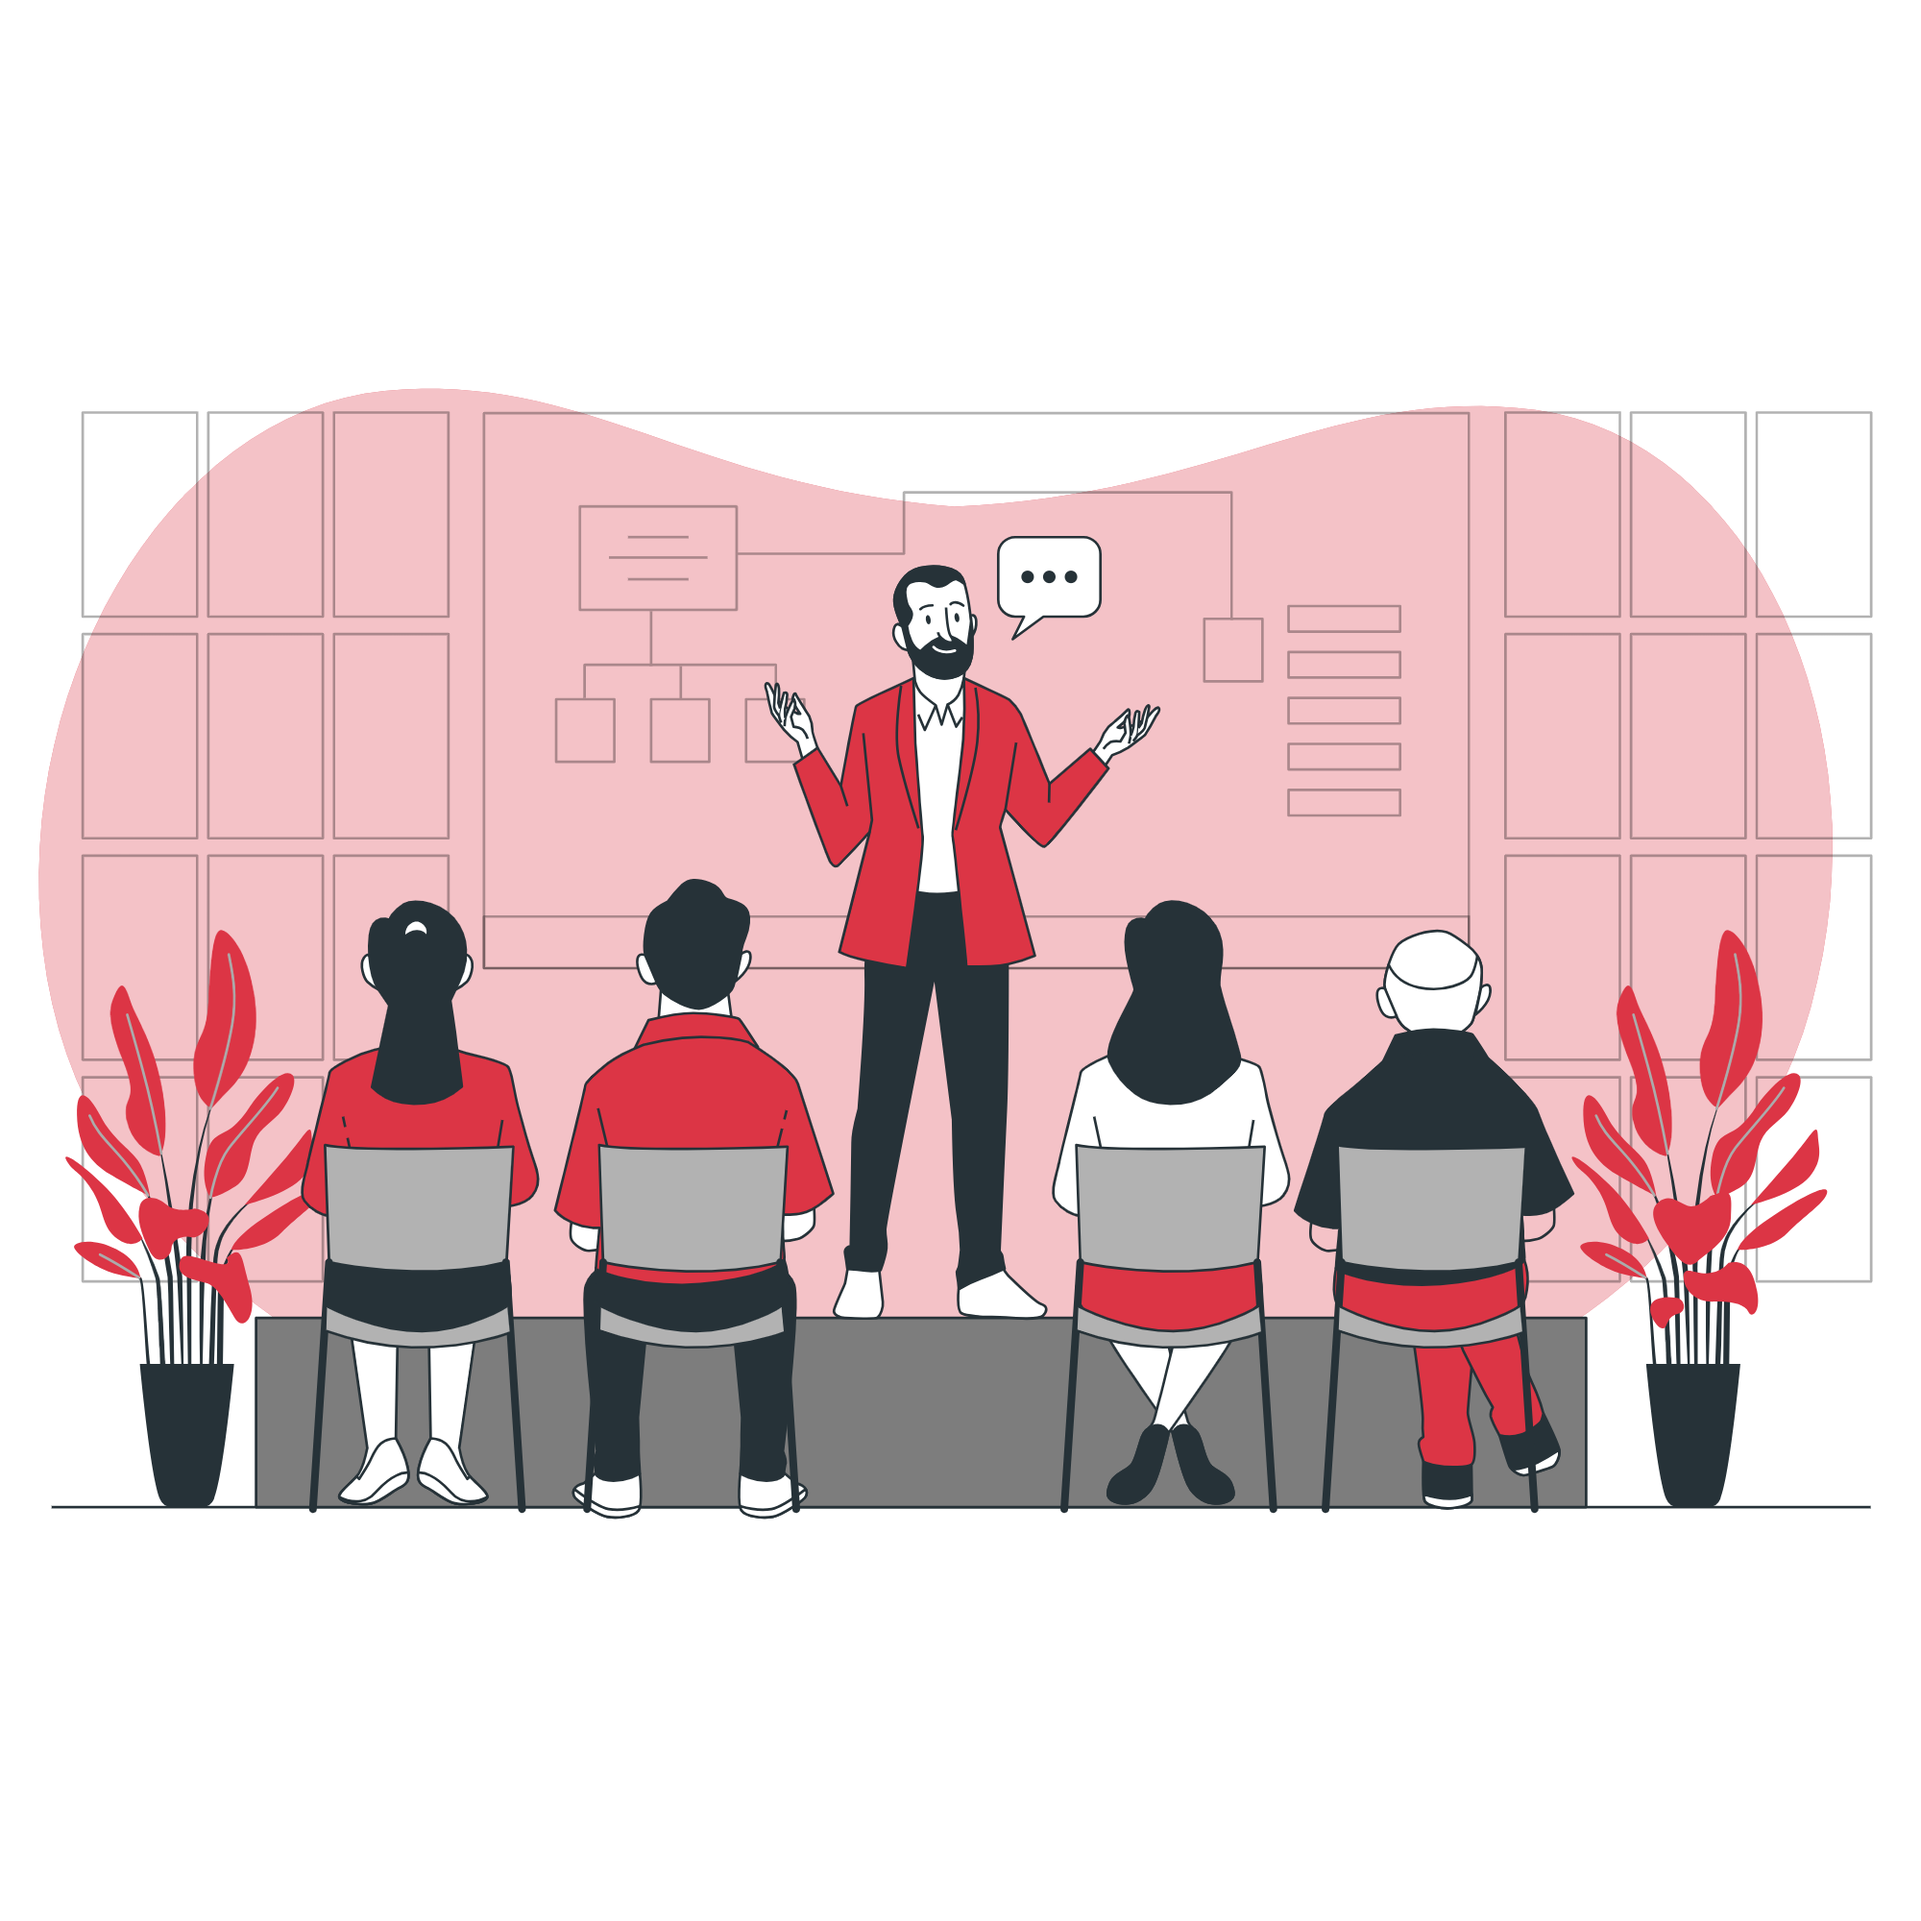
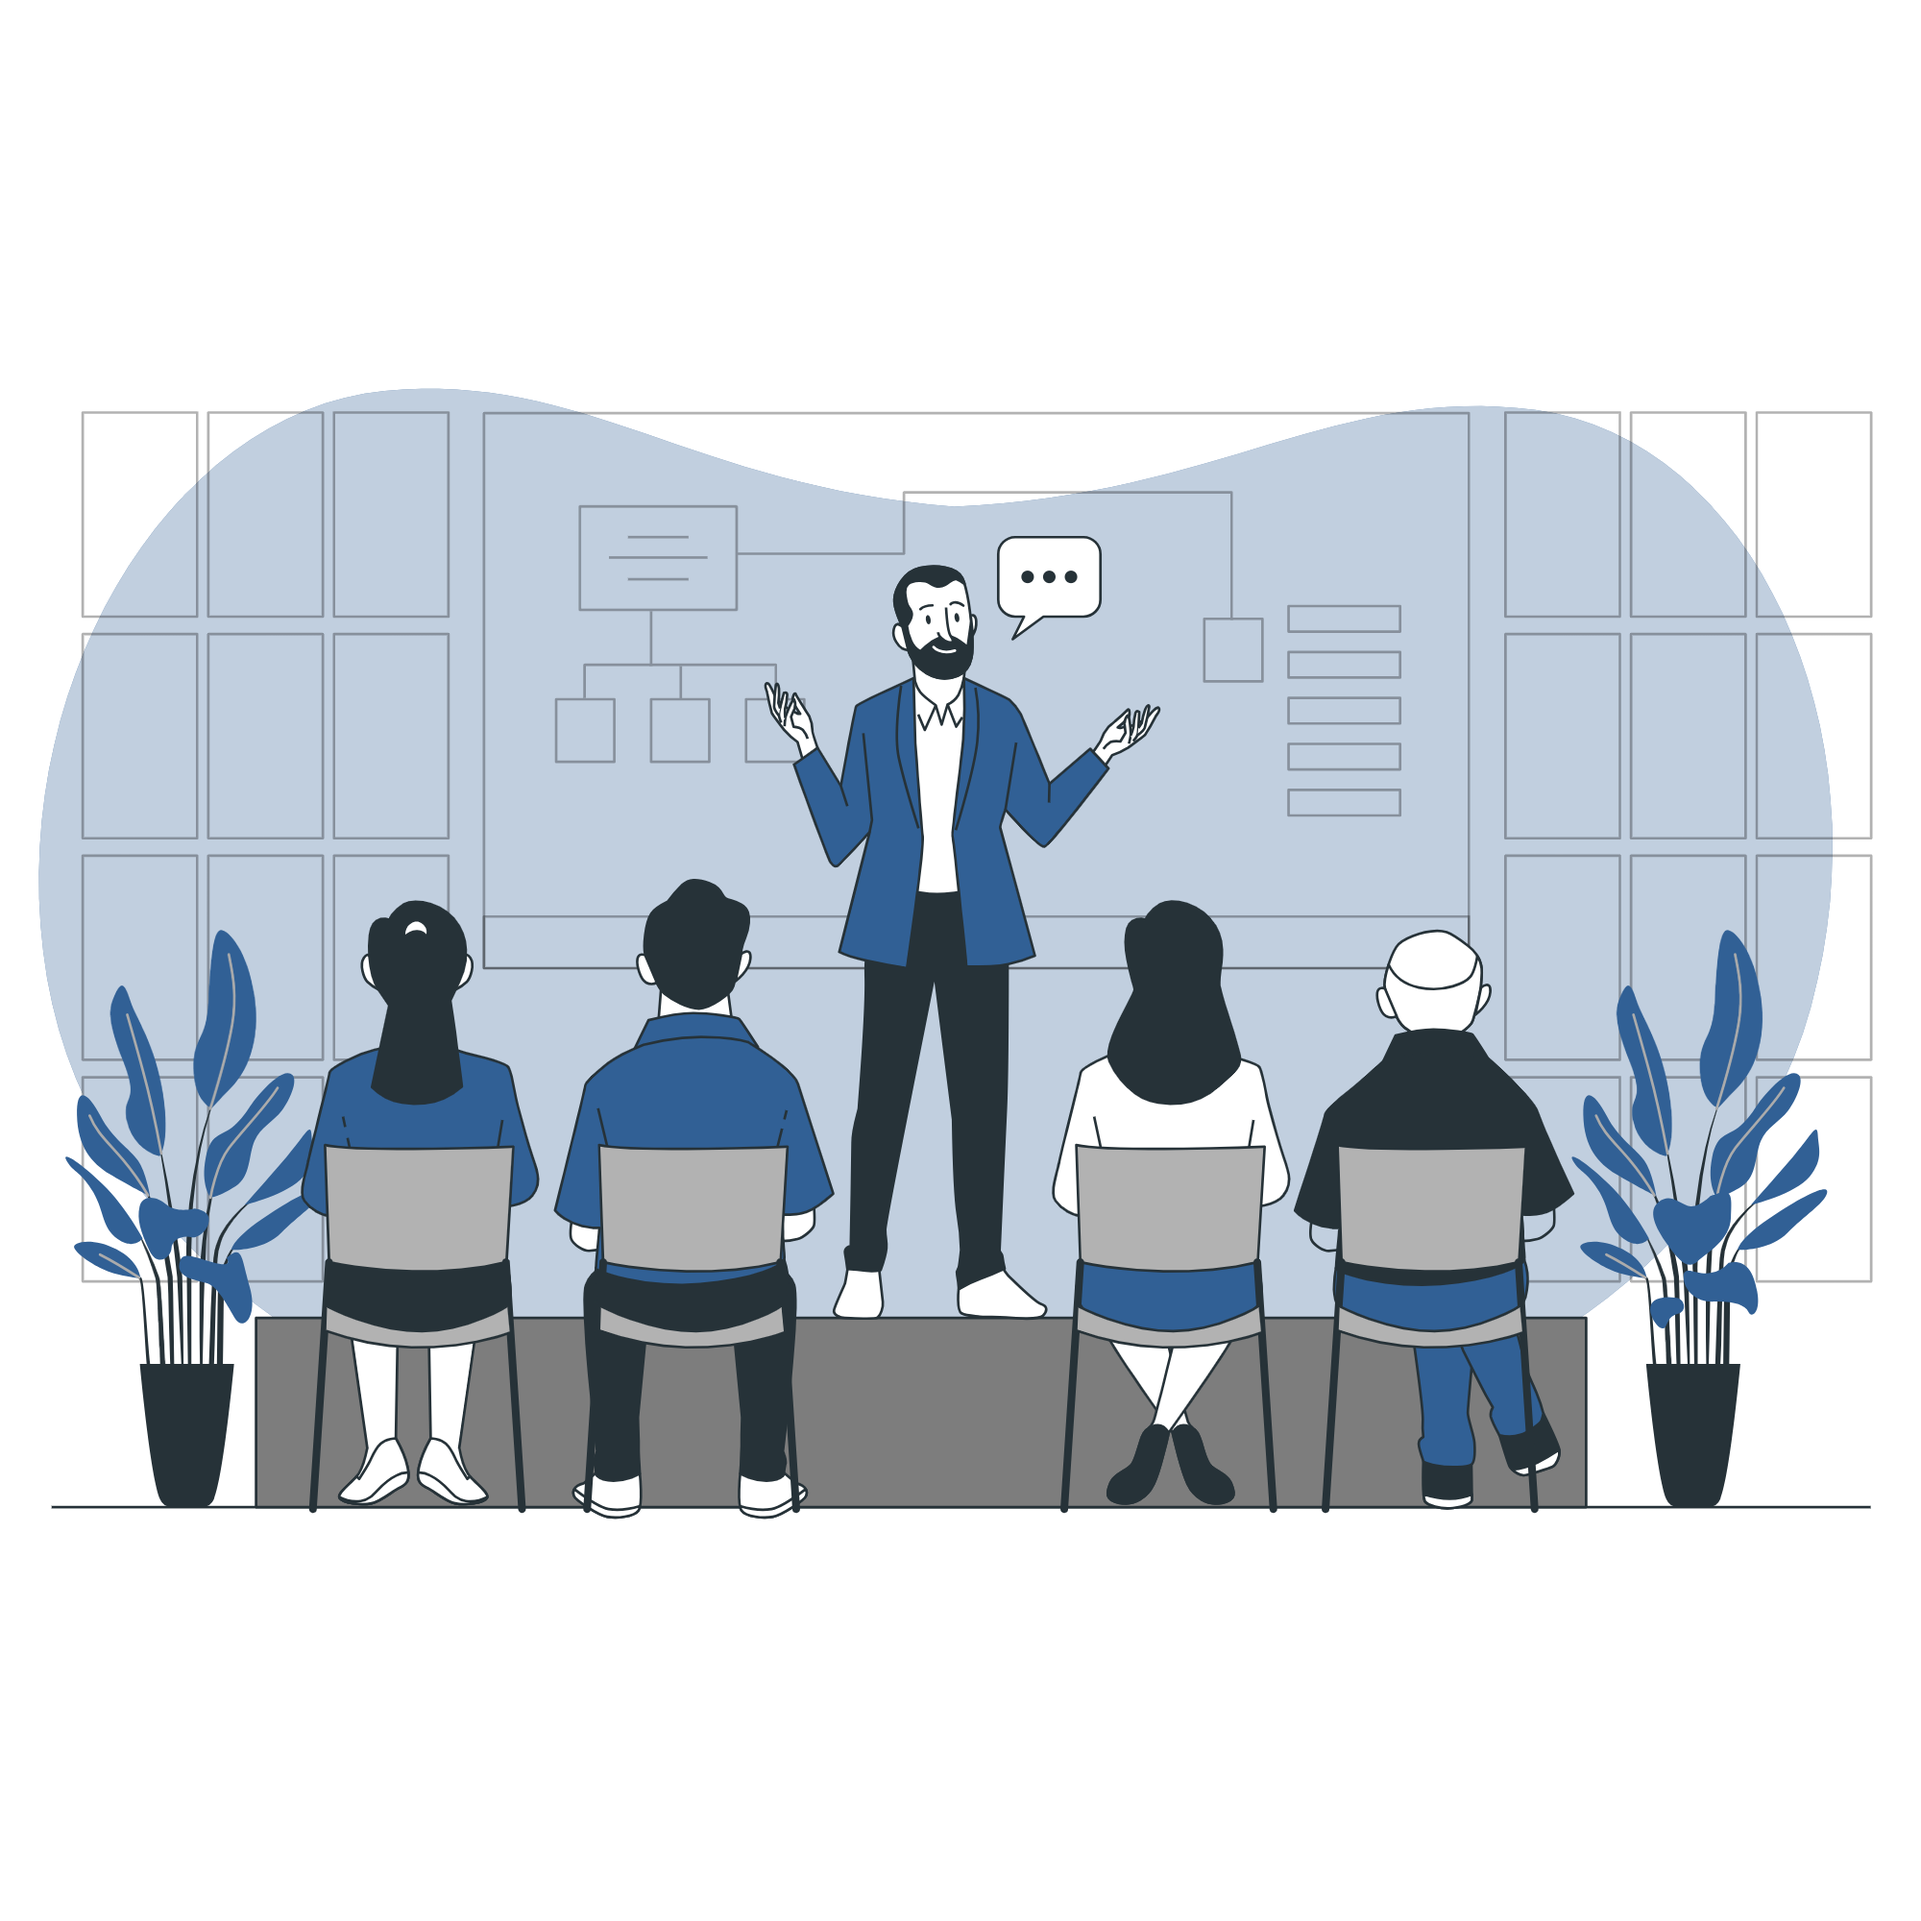
fix: ajustements après rendez-vous client

diff --git a/src/app/pages/organisation/organisation.component.html b/src/app/pages/organisation/organisation.component.html
@@ -9,10 +9,7 @@
         </p>
       </div>
       <div class="banner-image">
-        <img
-          src="assets/images/seminaire.png"
-          alt="Conditions d'Organisation"
-        />
+        <img src="assets/images/seminaire.png" alt="Séminaire de formation" />
       </div>
     </div>
 
@@ -38,11 +35,10 @@
       <div class="conditions-grid">
         <div class="condition-item">
           <i class="fa-solid fa-chalkboard-teacher"></i>
-          <p><strong>Présentiel & Distanciel</strong></p>
+          <p><strong>Présentiel</strong></p>
           <p>
-            Nos formations sont proposées en présentiel dans nos locaux ou
-            directement au sein de votre entreprise. Certaines sessions peuvent
-            également être suivies à distance.
+            Nos formations sont proposées en présentiel directement au sein de
+            votre entreprise.
           </p>
         </div>
         <div class="condition-item">
@@ -71,10 +67,18 @@
       <p>
         À l’issue de la formation, chaque participant reçoit une attestation de
         suivi ou un certificat officiel SST, en fonction de la formation suivie.
-        La certification est valable pour une durée de
+      </p>
+      <p>
+        La certification pour la formation
+        <strong>Acteurs SST (niveau 1)</strong> est valable pour une durée de
         <strong>24 mois</strong>, et un recyclage est obligatoire pour la
+        renouveler. <br />
+        La certification pour la formation
+        <strong>Formateurs SST (niveau 2)</strong> est valable pour une durée de
+        <strong>36 mois</strong>, et un recyclage est obligatoire pour la
         renouveler.
       </p>
+
       <p>
         L’objectif de cette certification est de s’assurer que chaque
         participant maîtrise les gestes de premiers secours et peut intervenir
@@ -123,47 +127,51 @@
       </p>
     </div>
 
-    <!-- 💰 Conditions financières -->
+    <!-- 💰 Financement par les OPCO -->
     <div class="finances">
-      <h3>Conditions Financières</h3>
+      <h3>Financement de votre formation</h3>
       <p>
-        Le financement de la formation peut être assuré par l’employeur, un
-        organisme financeur (OPCO), ou le participant lui-même. Voici les
-        principales modalités de paiement :
+        Vous souhaitez financer votre formation via votre entreprise ou un
+        organisme financeur ? Sachez que les formations proposées par
+        <strong>DM FORMAT</strong> peuvent être prises en charge par les
+        <strong>OPCO</strong> (Opérateurs de Compétences).
       </p>
-      <div class="finances-grid">
-        <div class="finance-item">
-          <i class="fa-solid fa-euro-sign"></i>
-          <p><strong>Acompte de 30%</strong></p>
-          <p>
-            Un acompte est demandé à l’inscription pour garantir la réservation
-            de votre place.
-          </p>
-        </div>
-        <div class="finance-item">
-          <i class="fa-solid fa-calendar"></i>
-          <p><strong>Échéance de Paiement</strong></p>
-          <p>
-            Le solde de la formation doit être réglé
-            <strong>10 jours avant</strong> le début de la session.
-          </p>
-        </div>
-        <div class="finance-item">
-          <i class="fa-solid fa-credit-card"></i>
-          <p><strong>Paiement en plusieurs fois</strong></p>
-          <p>
-            Possibilité de règlement en plusieurs fois sans frais selon les
-            modalités définies.
-          </p>
-        </div>
-        <div class="finance-item">
-          <i class="fa-solid fa-building"></i>
-          <p><strong>Financement OPCO</strong></p>
-          <p>
-            Les entreprises peuvent bénéficier d’une prise en charge via leur
-            OPCO.
-          </p>
-        </div>
+
+      <div class="finance-opco">
+        <i class="fa-solid fa-building"></i>
+        <p><strong>Qu’est-ce que les OPCO ?</strong></p>
+        <p>
+          Les OPCO sont des organismes chargés d’accompagner les entreprises
+          dans le financement de la formation professionnelle. Chaque secteur
+          d’activité dispose d’un OPCO spécifique.
+        </p>
+      </div>
+
+      <div class="finance-details">
+        <h4>Comment faire une demande de prise en charge ?</h4>
+        <ul>
+          <li>
+            <i class="fa-solid fa-circle-check"></i>Vérifiez l’OPCO dont dépend
+            votre entreprise.
+          </li>
+          <li>
+            <i class="fa-solid fa-phone-volume"></i>
+            Contactez votre OPCO pour connaître les critères d’éligibilité.
+          </li>
+          <li>
+            <i class="fa-solid fa-circle-question"></i>
+            Effectuez la demande de financement avant le début de la formation.
+          </li>
+          <li>
+            <i class="fa-solid fa-file"></i>
+            Fournissez les documents nécessaires (devis, programme de formation,
+            etc.).
+          </li>
+          <li>
+            <i class="fa-solid fa-hourglass-half"></i>Attendez l’accord et
+            suivez les instructions de votre OPCO.
+          </li>
+        </ul>
       </div>
     </div>
   </div>

diff --git a/src/app/pages/contact/contact.component.html b/src/app/pages/contact/contact.component.html
@@ -10,6 +10,25 @@
     <div class="contact-wrapper">
       <form (ngSubmit)="onSubmit()" #contactForm="ngForm">
         <div class="form-group">
+          <label for="company"
+            ><i class="fa-solid fa-building"></i> Raison sociale *</label
+          >
+          <input
+            type="text"
+            id="company"
+            name="company"
+            [(ngModel)]="contactData.company"
+            required
+            #company="ngModel"
+            [class.invalid]="company.invalid && company.touched"
+            placeholder="ex: DM FORMAT"
+          />
+          <div class="error-message" *ngIf="company.invalid && company.touched">
+            Veuillez entrer la raison sociale de votre entreprise.
+          </div>
+        </div>
+
+        <div class="form-group">
           <label for="name"
             ><i class="fa-solid fa-user"></i> Nom et Prénom *</label
           >
@@ -87,6 +106,11 @@
         <button type="submit" [disabled]="contactForm.invalid">
           <i class="fa-solid fa-paper-plane"></i> Envoyer
         </button>
+
+        <p class="required-fields">
+          * Tous les champs marqués d’un astérisque sont requis pour l’envoi du
+          formulaire.
+        </p>
       </form>
 
       <div class="contact-info">

diff --git a/src/app/pages/organisation/organisation.component.scss b/src/app/pages/organisation/organisation.component.scss
@@ -109,9 +109,51 @@
     }
   }
 
-  .finances-grid {
-    display: flex;
-    justify-content: space-around;
-    flex-wrap: wrap;
+  .finances {
+    margin-top: 50px;
+
+    .finance-opco {
+      display: flex;
+      align-items: center;
+      justify-content: center;
+      flex-direction: column;
+      padding: 8px;
+      margin: auto;
+      i {
+        font-size: 2rem;
+        color: var(--primary-color);
+        margin-right: 1rem;
+      }
+    }
+
+    .finance-details {
+      margin: auto;
+    }
+
+    h4 {
+      font-size: 1.5rem;
+      margin-bottom: 50px;
+      color: var(--primary-color);
+    }
+
+    ul {
+      list-style: none;
+      padding: 0;
+      display: flex;
+      gap: 25px;
+      li {
+        font-size: 20px;
+        margin-bottom: 50px;
+        display: flex;
+        flex-direction: column;
+        align-items: center;
+        text-align: center;
+        gap: 15px;
+        i {
+          font-size: 36px;
+          color: var(--primary-color);
+        }
+      }
+    }
   }
 }

diff --git a/src/styles.scss b/src/styles.scss
@@ -1,17 +1,18 @@
 :root {
-  --primary-color: #dc3545;
+  --primary-color: #316095;
   --secondary-color: #696969;
   --border-color: #e0e0e0;
   --success-color: #28a745;
-  --info-color: #8a222d;
+  --info-color: #0c498f;
   --warning-color: #ffc107;
-  --danger-color: #f3d9d9;
+  --danger-color: #abc1db;
   --light-color: white;
   --dark-color: #3d4145;
   --background-color: #f9f9f9;
   --background-color-dark: #f4f4f4;
   --button-color: #007bff;
   --button-color-hover: #0056b3;
+  --icon-color: #dc3545;
   --breakpoint-sm: 576px;
   --breakpoint-md: 768px;
   --breakpoint-lg: 992px;

diff --git a/src/app/components/header/header.component.html b/src/app/components/header/header.component.html
@@ -3,9 +3,11 @@
   <div class="nav-links">
     <button mat-button [matMenuTriggerFor]="menu">Nos formations</button>
     <mat-menu #menu="matMenu">
-      <button mat-menu-item [routerLink]="['/program', 1]">Acteurs SST</button>
+      <button mat-menu-item [routerLink]="['/program', 1]">
+        Acteurs SST (niveau 1)
+      </button>
       <button mat-menu-item [routerLink]="['/program', 2]">
-        Formateurs SST
+        Formateurs SST (niveau 2)
       </button>
       <button mat-menu-item [routerLink]="['/program', 3]">
         Initiations aux premiers secours

diff --git a/src/app/pages/contact/contact.component.ts b/src/app/pages/contact/contact.component.ts
@@ -12,6 +12,7 @@ import { MatSnackBar, MatSnackBarModule } from '@angular/material/snack-bar';
 })
 export class ContactComponent {
   contactData = {
+    company: '',
     name: '',
     email: '',
     phone: '',
@@ -35,7 +36,13 @@ export class ContactComponent {
         panelClass: ['success-snackbar'],
       });
 
-      this.contactData = { name: '', email: '', phone: '', message: '' };
+      this.contactData = {
+        company: '',
+        name: '',
+        email: '',
+        phone: '',
+        message: '',
+      };
     }
   }
 }

diff --git a/src/app/pages/program-detail/program-detail.component.html b/src/app/pages/program-detail/program-detail.component.html
@@ -71,7 +71,7 @@
     </div>
 
     <div class="testimonials">
-      <h2>💬 <span>Témoignages</span> d'anciens participants</h2>
+      <h2>💬 <span>Avis</span> des participants</h2>
       <div *ngIf="program.testimonials.length > 0; else noTestimonials">
         <div
           *ngFor="let testimonial of program.testimonials"

diff --git a/src/app/components/footer/footer.component.html b/src/app/components/footer/footer.component.html
@@ -51,6 +51,6 @@
 
   <!-- 📌 Bas de page avec Copyright Dynamique -->
   <div class="footer-bottom">
-    <p>&copy; {{ currentYear }} DM Formation - Tous droits réservés</p>
+    <p>&copy; {{ currentYear }} DM FORMAT - Tous droits réservés</p>
   </div>
 </footer>

diff --git a/src/app/pages/contact/contact.component.scss b/src/app/pages/contact/contact.component.scss
@@ -91,6 +91,10 @@
       cursor: not-allowed;
     }
   }
+  .required-fields {
+    margin-top: 25px;
+    font-size: 16px;
+  }
 
   /* 📌 Informations de contact */
   .contact-info {
